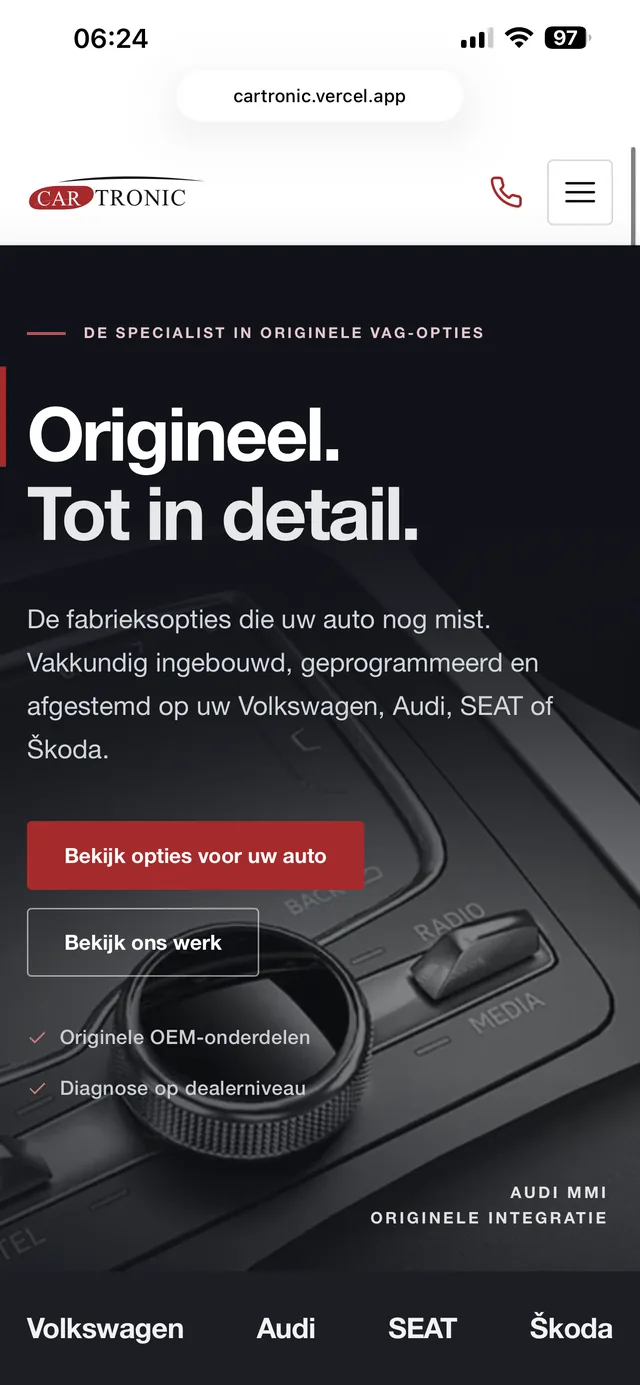
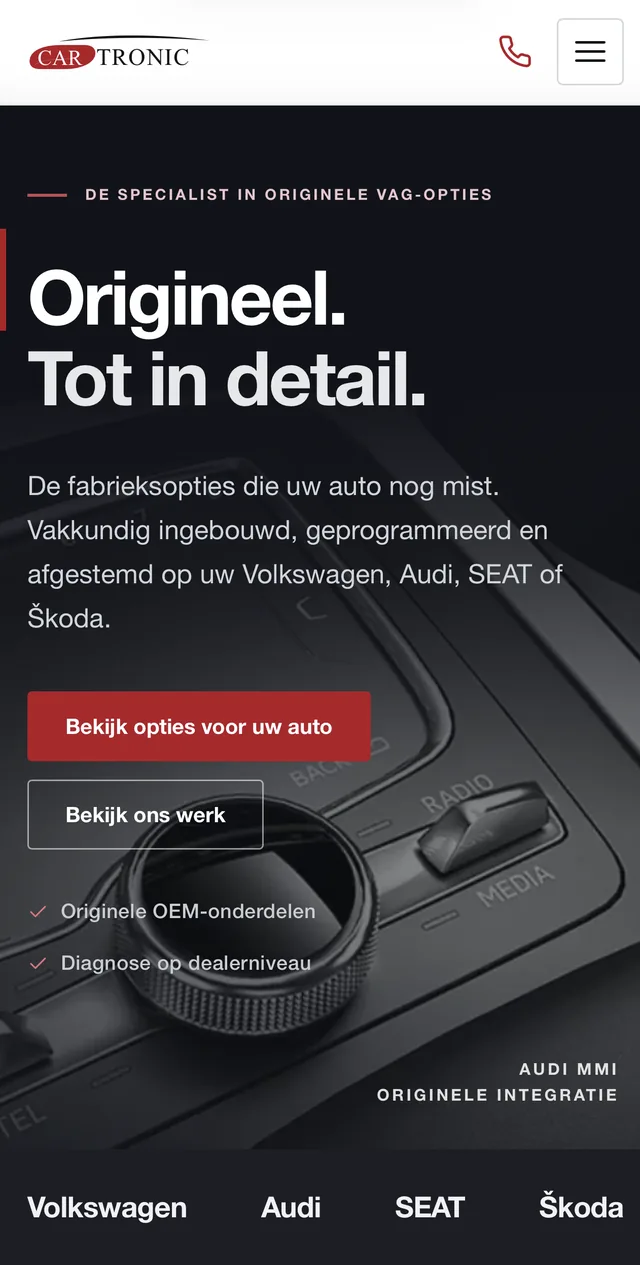
Screenshots zonder statusbalk en adresbalk, teller op 20+ sites live
Tijd, batterij, URL-balk en scrollbalk uit de mobiele screenshots gesneden; foto's staan onder een zwarte statusbalk in het telefoonframe zonder dat de randen wegvallen.

Claude-Session: https://claude.ai/code/session_01LKW5Eb7cXuRBFmGMiePUFk

diff --git a/index.html b/index.html
@@ -121,6 +121,9 @@ h1,h2,h3{font-family:var(--f-display); margin:0; text-wrap:balance; line-height:
 .screen > img{position:absolute; inset:0; width:100%; height:100%; object-fit:cover; object-position:top; z-index:2}
 .handset{background:#05070A; border-radius:clamp(18px, 3vw, 30px); padding:clamp(5px, .8vw, 8px); box-shadow:0 40px 80px -24px rgba(0,0,0,.9), 0 0 0 1px var(--line-2)}
 .handset .screen{aspect-ratio:9/19.5; border-radius:clamp(13px, 2.3vw, 23px)}
+.handset .screen > img{top:auto; bottom:0; height:auto; object-fit:initial}
+.handset .screen:has(> img){background:#000}
+.handset .screen:has(> img) .mock{display:none}
 .handset .notch{position:absolute; top:6px; left:50%; transform:translateX(-50%); width:34%; height:4.5%; border-radius:99px; background:#05070A; z-index:3}
 .float{position:absolute; z-index:4; display:flex; align-items:center; gap:10px; padding:10px 14px; border-radius:12px; font-size:.82rem; font-weight:700; white-space:nowrap;
   background:rgba(20,25,34,.88); border:1px solid var(--line-2); backdrop-filter:blur(10px); -webkit-backdrop-filter:blur(10px); box-shadow:0 18px 40px -16px rgba(0,0,0,.8)}
@@ -570,7 +573,7 @@ body.mbar-on .wa-fab{transform:scale(0)}
         <div class="stats">
           <div><b data-count="200" data-pre="€">€200</b><span>Startprijs</span></div>
           <div><b data-count="7" data-suf=" dagen">7 dagen</b><span>Tot je online bent</span></div>
-          <div><b data-count="3">3</b><span>Sites live</span></div>
+          <div><b data-count="20" data-suf="+">20+</b><span>Sites live</span></div>
         </div>
       </div>
 
